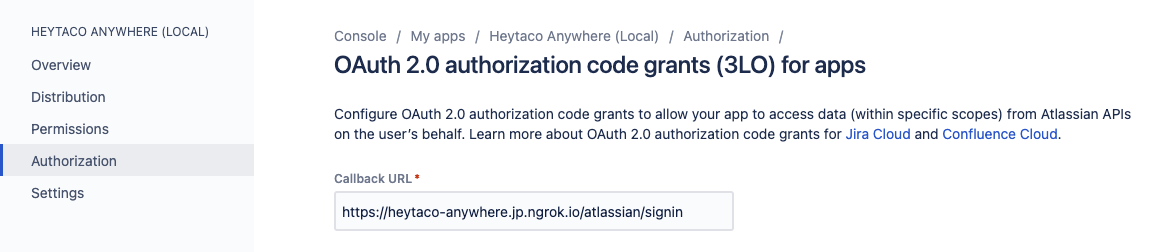
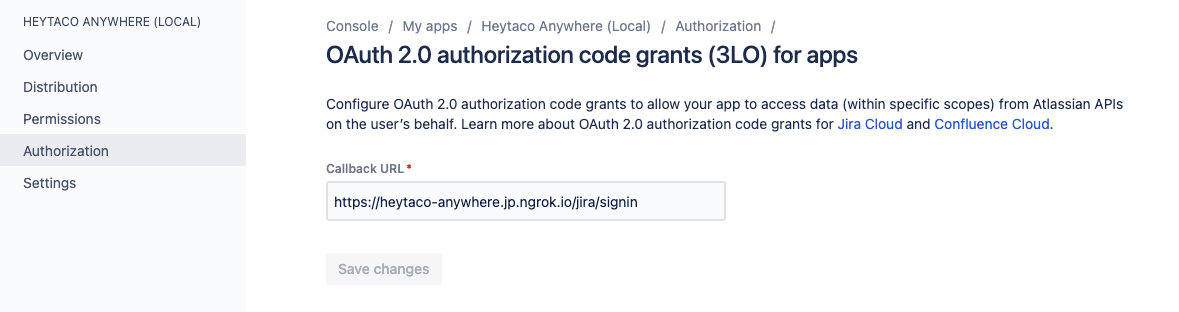
deploy: cb1532b2aeaf6fc4ee4f031f647ff674e81c6271

diff --git a/docs/configuration/index.html b/docs/configuration/index.html
@@ -1,2 +1,2 @@
 <!doctype html><html lang=en><head><meta charset=utf-8><meta http-equiv=x-ua-compatible content="ie=edge"><title>Configuration - Heytaco Anywhere 🌮</title><meta name=viewport content="width=device-width,initial-scale=1"><link rel=icon href=/favicon.png><link rel=stylesheet href=/css/style.min.f7a420f5e4a45c03f29b643887d372739f8b0c38ee1bb1262dacb8bded4d7c79.css></head><body class="page page-default-single"><div id=main-menu-mobile class=main-menu-mobile><ul><li class=menu-item-home><a href=/><span>Home</span></a></li><li class=menu-item-docs><a href=/docs/><span>Docs</span></a></li></ul></div><div class=wrapper><div class=header><div class=container><div class=logo><a href=/><img alt=Logo src=/images/taco.png></a></div><div class=logo-mobile><a href=/><img alt=Logo src=/images/taco.png></a></div><div id=main-menu class=main-menu><ul><li class=menu-item-home><a href=/><span>Home</span></a></li><li class=menu-item-docs><a href=/docs/><span>Docs</span></a></li></ul></div><button id=toggle-main-menu-mobile class="hamburger hamburger--slider" type=button>
-<span class=hamburger-box><span class=hamburger-inner></span></span></button></div></div><div class="container pt-2 pt-md-6 pb-3 pb-md-6"><div class=row><div class="col-12 col-md-3 mb-3"><div class=sidebar><div class=docs-menu><h4>Docs</h4><ul><li><a href=/docs/get-started/>Get started</a></li><li class=active><a href=/docs/configuration/>Configuration</a></li><li><a href=/docs/installation/>Installation</a></li><li><a href=/docs/reference/>Reference</a></li><li><a href=/docs/release/>Release Note</a></li></ul></div></div></div><div class="col-12 col-md-9"><h1 class=title>Configuration</h1><div class=content><p>Heytaco Anywhere is connected by OAuth. It is necessary to configure Slack or Microsoft Teams. And also you need to configure a service to communicate with HeyTaco!.</p><h2 id=contents>Contents</h2><ul><li><a href=#slack>Slack</a></li><li><a href=#microsoft-teams>Microsoft Teams</a></li><li><a href=#github>Github</a></li><li><a href=#atlassian>Atlassian</a></li></ul><h2 id=slack>Slack</h2><p>Slack supports App people connect their tools and work more efficiently within Slack. Heytaco Anywhere is also a kind of Slack App.</p><h3 id=step-0-create-a-new-channel>Step 0: Create a new channel</h3><p>To send the 🌮 message, it needs a new slack channel. Let&rsquo;s add a new channle, such as &ldquo;taco&rdquo;, and get the channel id. Check <a href=https://stackoverflow.com/questions/40940327/what-is-the-simplest-way-to-find-a-slack-team-id-and-a-channel-id>here</a>.</p><p>figure) Get channel id</p><p><img src=/images/slack-channel-id.png alt=slack-channel-id></p><h3 id=step-1-create-app>Step 1: Create App</h3><p>Firstly, we have to create <a href=https://api.slack.com/apps>Slack App</a>. Let&rsquo;s click the <strong>Create App</strong> button and fill out inputs.</p><p><img src=/images/slack-create-app.png alt=slack-create-app></p><h3 id=step-2-set-up-app>Step 2: Set up App</h3><p>After creating App let&rsquo;s move to the <strong>OAuth & Permissions</strong> section. In this section, we need to set up the <em>redirect URLs</em> and <em>scopes</em>. Firstly, let&rsquo;s add a new redirect URL with the <code>https://YOUR_HOST/slack/signin</code> (or <code>http://YOUR_HOST/slack/signin</code>) format; secondly, add the <code>identity.basic</code> into the user token scopes.</p><p>figure) Slack Redirect URLS</p><p><img src=/images/slack-redirect-url.png alt=slack-redirect-url></p><p>figure) Slack Scope</p><p><img src=/images/slack-scope.png alt=slack-scope></p><p>Then install the App into the workspace by clicking <strong>Install to Workspace</strong>. (<a href=https://api.slack.com/authentication/basics#start>Slack Doc</a>)</p><h2 id=microsoft-teams>Microsoft Teams</h2><p><strong>WIP</strong></p><h2 id=github>Github</h2><p>Github provides OAuth App & Webhook. It makes Heytaco Anywhere reads Github users and listen to events.</p><h3 id=step-1-create-app-1>Step 1: Create App</h3><p>In the organization, move to <strong>Settings > Developer Settings > OAuth settings</strong> to configure OAuth.</p><p>After click New OAuth App, you have to fill out the Homepage URL as the <code>https://YOUR_HOST</code> format and the Authorization callback URL as the <code>https://YOUR_HOST/github/signin</code> format. (<a href=https://docs.github.com/en/developers/apps/creating-an-oauth-app>Github Doc</a>)</p><p>figure) Create Github OAuth App</p><p><img src=/images/github-create-app.png alt=github-create-app></p><h3 id=step-2-create-webhook>Step 2: Create Webhook</h3><p>In the organization, move to <strong>Settings > Webhooks</strong> to configure the webhook.</p><p>After click Add webhook, you have to fill out the Payload URL and the Content-Type are required; The Payload URL format has to be <code>https://YOUR_HOST/github/hooks</code>, and the Content-Type has to be <code>application/json</code> format; (We recommend you should set the signing secret for security.)</p><p>And we have to select events the server listens to the event, click these events enabled: <code>Issue comments</code>, <code>Pull request reviews</code>, and <code>Pull request review comments</code>.</p><p>figure) Create Github Webhook</p><p><img src=/images/github-create-webhook.png alt=github-create-webhook></p><h2 id=atlassian>Atlassian</h2><p>Github provides OAuth App & Webhook. It makes Heytaco Anywhere reads Github user and listen to events.</p><h3 id=step-1-create-app-2>Step 1: Create App</h3><p>To connect with Atlassian, you have to Atlassian App and make it public. Let&rsquo;s move to the <a href=https://developer.atlassian.com/console/myapps/>Atlassian Developer Console</a> and create a new App. The App requires configuring the Callback URL and Permissions; The callback URL has to be <code>https://YOUR_HOST/atlassian/signin</code>; The <code>User identity API</code> has to be added. (reference <a href=https://developer.atlassian.com/cloud/jira/platform/oauth-2-3lo-apps/>JIRA OAuth</a>)</p><p>To make your teammates access the App for authentication. You have to the App public by requesting to <a href=https://ecosystem.atlassian.net/servicedesk/customer/portal/14>Developer Service Desk</a>.</p><p>figure) Atlassian Authorization</p><p><img src=/images/atlassian-app-authorization.png alt=atlassian-app-authorization></p><p>figure) Atlassian Permissions</p><p><img src=/images/atlassian-app-permissions.png alt=atlassian-app-permissions></p><p>figure) Atlassian Distribution</p><p><img src=/images/atlassian-app-distribution.png alt=atlassian-app-distribution></p><h3 id=step-2-create-webhook-1>Step 2: Create Webhook</h3><p>In your JIRA workspace, move to <strong>Settings > System > WebHooks</strong>.</p><p>After click Create a Webhook button, you have to fill out the URL with <code>https://YOUR_HOST/atlassian/hooks</code>, and click the Comment <code>created</code> event enabled.</p><p><img src=/images/atlassian-app-webhook.png alt=atlassian-app-webhook></p></div></div></div></div></div></div><div class=sub-footer><div class=container><div class=row><div class=col-12><div class=sub-footer-inner><ul><li class=zerostatic><a href=https://github.com/heytaco-anywhere/community/discussions>Community</a></li><li class=zerostatic><a href=/privacy>Privacy</a></li><li class=zerostatic><a href=https://heytaco-anywhere.chat>heytaco-anywhere.chat</a></li></ul></div></div></div></div></div><script type=text/javascript src=/js/scripts.min.eaf147370baecdd07c022597db631f99cab1c9cd6479de586f30327a568d6a0f.js></script></body></html>
+<span class=hamburger-box><span class=hamburger-inner></span></span></button></div></div><div class="container pt-2 pt-md-6 pb-3 pb-md-6"><div class=row><div class="col-12 col-md-3 mb-3"><div class=sidebar><div class=docs-menu><h4>Docs</h4><ul><li><a href=/docs/get-started/>Get started</a></li><li class=active><a href=/docs/configuration/>Configuration</a></li><li><a href=/docs/installation/>Installation</a></li><li><a href=/docs/reference/>Reference</a></li><li><a href=/docs/release/>Release Note</a></li></ul></div></div></div><div class="col-12 col-md-9"><h1 class=title>Configuration</h1><div class=content><p>Heytaco Anywhere is connected by OAuth. It is necessary to configure Slack or Microsoft Teams. And also you need to configure a service to communicate with HeyTaco!.</p><h2 id=contents>Contents</h2><ul><li><a href=#slack>Slack</a></li><li><a href=#microsoft-teams>Microsoft Teams</a></li><li><a href=#github>Github</a></li><li><a href=#jira>Jira</a></li></ul><h2 id=slack>Slack</h2><p>Slack supports App people connect their tools and work more efficiently within Slack. Heytaco Anywhere is also a kind of Slack App.</p><h3 id=step-0-create-a-new-channel>Step 0: Create a new channel</h3><p>To send the 🌮 message, it needs a new slack channel. Let&rsquo;s add a new channle, such as &ldquo;taco&rdquo;, and get the channel id. Check <a href=https://stackoverflow.com/questions/40940327/what-is-the-simplest-way-to-find-a-slack-team-id-and-a-channel-id>here</a>.</p><p>figure) Get channel id</p><p><img src=/images/slack-channel-id.png alt=slack-channel-id></p><h3 id=step-1-create-app>Step 1: Create App</h3><p>Firstly, we have to create <a href=https://api.slack.com/apps>Slack App</a>. Let&rsquo;s click the <strong>Create App</strong> button and fill out inputs.</p><p><img src=/images/slack-create-app.png alt=slack-create-app></p><h3 id=step-2-set-up-app>Step 2: Set up App</h3><p>After creating App let&rsquo;s move to the <strong>OAuth & Permissions</strong> section. In this section, we need to set up the <em>redirect URLs</em> and <em>scopes</em>. Firstly, let&rsquo;s add a new redirect URL with the <code>https://YOUR_HOST/slack/signin</code> (or <code>http://YOUR_HOST/slack/signin</code>) format; secondly, add the <code>identity.basic</code> into the user token scopes.</p><p>figure) Slack Redirect URLS</p><p><img src=/images/slack-redirect-url.png alt=slack-redirect-url></p><p>figure) Slack Scope</p><p><img src=/images/slack-scope.png alt=slack-scope></p><p>Then install the App into the workspace by clicking <strong>Install to Workspace</strong>. (<a href=https://api.slack.com/authentication/basics#start>Slack Doc</a>)</p><h2 id=microsoft-teams>Microsoft Teams</h2><p><strong>WIP</strong></p><h2 id=github>Github</h2><h3 id=step-1-create-app-1>Step 1: Create App</h3><p>In the organization, move to <strong>Settings > Developer Settings > OAuth settings</strong> to configure OAuth.</p><p>After click New OAuth App, you have to fill out the Homepage URL as the <code>https://YOUR_HOST</code> format and the Authorization callback URL as the <code>https://YOUR_HOST/github/signin</code> format. (<a href=https://docs.github.com/en/developers/apps/creating-an-oauth-app>Github Doc</a>)</p><p>figure) Create Github OAuth App</p><p><img src=/images/github-create-app.png alt=github-create-app></p><h3 id=step-2-create-webhook>Step 2: Create Webhook</h3><p>In the organization, move to <strong>Settings > Webhooks</strong> to configure the webhook.</p><p>After click Add webhook, you have to fill out the Payload URL and the Content-Type are required; The Payload URL format has to be <code>https://YOUR_HOST/github/hooks</code>, and the Content-Type has to be <code>application/json</code> format; (We recommend you should set the signing secret for security.)</p><p>And we have to select events the server listens to the event, click these events enabled: <code>Issue comments</code>, <code>Pull request reviews</code>, and <code>Pull request review comments</code>.</p><p>figure) Create Github Webhook</p><p><img src=/images/github-create-webhook.png alt=github-create-webhook></p><h2 id=jira>Jira</h2><h3 id=step-1-create-app-2>Step 1: Create App</h3><p>To connect with Jira, you have to create App in Atlassian Developer and make it public. Let&rsquo;s move to the <a href=https://developer.atlassian.com/console/myapps/>Atlassian Developer Console</a> and create a new App. For OAuth, you have to configure the Callback URL and Permissions; The Callback URL has to be <code>https://YOUR_HOST/jira/signin</code> and it can be configured in the <em>Authorization</em> section; Permissions requires <code>View user profiles</code> and <code>View Jira Issue data</code> of Jira, it can be configured in the <em>Permissions</em> section. (<a href=https://developer.atlassian.com/cloud/jira/platform/oauth-2-3lo-apps/>JIRA oAuth</a>)</p><p>To make your teammates access the App for authentication. You can make the App public by requesting to <a href=https://ecosystem.atlassian.net/servicedesk/customer/portal/14>Developer Service Desk</a>.</p><p>figure) App Authorization</p><p><img src=/images/atlassian-app-authorization.png alt=atlassian-app-authorization></p><p>figure) App Permissions</p><p><img src=/images/atlassian-app-permissions.png alt=atlassian-app-permissions></p><p>figure) App Distribution</p><p><img src=/images/atlassian-app-distribution.png alt=atlassian-app-distribution></p><h3 id=step-2-create-webhook-1>Step 2: Create Webhook</h3><p>In your JIRA workspace, move to <strong>Settings > System > WebHooks</strong>.</p><p>After click Create a Webhook button, you have to fill out the URL with <code>https://YOUR_HOST/jira/hooks</code>, and click the Comment <code>created</code> event enabled.</p><p><img src=/images/atlassian-app-webhook.png alt=atlassian-app-webhook></p></div></div></div></div></div></div><div class=sub-footer><div class=container><div class=row><div class=col-12><div class=sub-footer-inner><ul><li class=zerostatic><a href=https://github.com/heytaco-anywhere/community/discussions>Community</a></li><li class=zerostatic><a href=/privacy>Privacy</a></li><li class=zerostatic><a href=https://heytaco-anywhere.chat>heytaco-anywhere.chat</a></li></ul></div></div></div></div></div><script type=text/javascript src=/js/scripts.min.eaf147370baecdd07c022597db631f99cab1c9cd6479de586f30327a568d6a0f.js></script></body></html>

diff --git a/docs/reference/index.html b/docs/reference/index.html
@@ -1,2 +1,5 @@
 <!doctype html><html lang=en><head><meta charset=utf-8><meta http-equiv=x-ua-compatible content="ie=edge"><title>Reference - Heytaco Anywhere 🌮</title><meta name=viewport content="width=device-width,initial-scale=1"><link rel=icon href=/favicon.png><link rel=stylesheet href=/css/style.min.f7a420f5e4a45c03f29b643887d372739f8b0c38ee1bb1262dacb8bded4d7c79.css></head><body class="page page-default-single"><div id=main-menu-mobile class=main-menu-mobile><ul><li class=menu-item-home><a href=/><span>Home</span></a></li><li class=menu-item-docs><a href=/docs/><span>Docs</span></a></li></ul></div><div class=wrapper><div class=header><div class=container><div class=logo><a href=/><img alt=Logo src=/images/taco.png></a></div><div class=logo-mobile><a href=/><img alt=Logo src=/images/taco.png></a></div><div id=main-menu class=main-menu><ul><li class=menu-item-home><a href=/><span>Home</span></a></li><li class=menu-item-docs><a href=/docs/><span>Docs</span></a></li></ul></div><button id=toggle-main-menu-mobile class="hamburger hamburger--slider" type=button>
-<span class=hamburger-box><span class=hamburger-inner></span></span></button></div></div><div class="container pt-2 pt-md-6 pb-3 pb-md-6"><div class=row><div class="col-12 col-md-3 mb-3"><div class=sidebar><div class=docs-menu><h4>Docs</h4><ul><li><a href=/docs/get-started/>Get started</a></li><li><a href=/docs/configuration/>Configuration</a></li><li><a href=/docs/installation/>Installation</a></li><li class=active><a href=/docs/reference/>Reference</a></li><li><a href=/docs/release/>Release Note</a></li></ul></div></div></div><div class="col-12 col-md-9"><h1 class=title>Reference</h1><div class=content><p>Index of server configuration settings. These configurations are injected by environment variables.</p><h3 id=environment-vairables>Environment Vairables</h3><ul><li><p><strong>HEYTACO_ANYWHERE_DEBUG</strong>: Debug mode.</p></li><li><p><strong>HEYTACO_ANYWHERE_SERVER_HOST</strong>: Required string value configures the user-facing (and webhook) hostname. <em>This value is used to configure OAuth.</em></p></li><li><p><strong>HEYTACO_ANYWHERE_SERVER_PROTO</strong>: Required string value provides your external protocol scheme. This value should be set to <code>http</code> or <code>https</code>.</p></li><li><p><strong>HEYTACO_ANYWHERE_HEYTACO_APP_SECRET</strong>: Required string value provides your HeyTaco! App secret. <em>You can get the secret after creating HeyTaco! App</em> Here is the <a href=https://www.heytaco.chat/team/apps/create>link</a> to create.</p></li><li><p><strong>HEYTACO_ANYWHERE_WEBHOOK_SECRET</strong>: String value provides the signing secret. <em>It is used to check the signature is valid or not.</em> It doesn&rsquo;t check the signature if you don&rsquo;t set up.</p></li><li><p><strong>HEYTACO_ANYWHERE_SLACK_CHANNEL</strong>: String value is the slack channel id. <em>It is used to post the message. This value should be the channel id, not the name.</em> Check <a href=https://stackoverflow.com/questions/40940327/what-is-the-simplest-way-to-find-a-slack-team-id-and-a-channel-id>here</a>.</p></li><li><p><strong>HEYTACO_ANYWHERE_SLACK_CLIENT_ID</strong>: String string value provides the client id of Slack App. <em>This is used to authorize access to Slack to get the access token.</em></p></li><li><p><strong>HEYTACO_ANYWHERE_SLACK_CLIENT_SECRET</strong>: String string value provides the client secret of Slack App.</p></li><li><p><strong>HEYTACO_ANYWHERE_GITHUB_CLIENT_ID</strong>: String value provides the client id of Github OAuth App. <em>This is used to authorize access to Github to map Github users with HeyTaco! users.</em></p></li><li><p><strong>HEYTACO_ANYWHERE_GITHUB_CLIENT_SECRET</strong>: String value provides the client secret of Github OAuth App.</p></li><li><p><strong>HEYTACO_ANYWHERE_ATLASSIAN_CLIENT_ID</strong>: String value provides the client id of Atlassian OAuth App. <em>This is used to authorize access to Atlassian to map Atlassian users with HeyTaco! users.</em></p></li><li><p><strong>HEYTACO_ANYWHERE_ATLASSIAN_CLIENT_SECRET</strong>: String value provides the client secret of Atlassian OAuth App.</p></li></ul></div></div></div></div></div></div><div class=sub-footer><div class=container><div class=row><div class=col-12><div class=sub-footer-inner><ul><li class=zerostatic><a href=https://github.com/heytaco-anywhere/community/discussions>Community</a></li><li class=zerostatic><a href=/privacy>Privacy</a></li><li class=zerostatic><a href=https://heytaco-anywhere.chat>heytaco-anywhere.chat</a></li></ul></div></div></div></div></div><script type=text/javascript src=/js/scripts.min.eaf147370baecdd07c022597db631f99cab1c9cd6479de586f30327a568d6a0f.js></script></body></html>
+<span class=hamburger-box><span class=hamburger-inner></span></span></button></div></div><div class="container pt-2 pt-md-6 pb-3 pb-md-6"><div class=row><div class="col-12 col-md-3 mb-3"><div class=sidebar><div class=docs-menu><h4>Docs</h4><ul><li><a href=/docs/get-started/>Get started</a></li><li><a href=/docs/configuration/>Configuration</a></li><li><a href=/docs/installation/>Installation</a></li><li class=active><a href=/docs/reference/>Reference</a></li><li><a href=/docs/release/>Release Note</a></li></ul></div></div></div><div class="col-12 col-md-9"><h1 class=title>Reference</h1><div class=content><p>Index of server configuration settings. These configurations are injected by environment variables.</p><h3 id=environment-vairables>Environment Vairables</h3><p><strong>HEYTACO_ANYWHERE_DEBUG</strong></p><p>Debug mode.</p><p><strong>HEYTACO_ANYWHERE_SERVER_HOST</strong></p><p>Required string value configures the user-facing (and webhook) hostname. <em>This value is used to configure OAuth.</em></p><p><strong>HEYTACO_ANYWHERE_SERVER_PROTO</strong></p><p>Required string value provides your external protocol scheme. This value should be set to <code>http</code> or <code>https</code>.</p><p><strong>HEYTACO_ANYWHERE_HEYTACO_APP_SECRET</strong></p><p>Required string value provides your HeyTaco! App secret. <em>You can get the secret after creating HeyTaco! App</em> Here is the <a href=https://www.heytaco.chat/team/apps/create>link</a> to create.</p><p><strong>HEYTACO_ANYWHERE_WEBHOOK_SECRET</strong></p><p>String value provides the signing secret. <em>It is used to check the signature is valid or not.</em> It doesn&rsquo;t check the signature if you don&rsquo;t set up.</p><p><strong>HEYTACO_ANYWHERE_SLACK_CHANNEL</strong></p><p>String value is the slack channel id. <em>It is used to post the message. This value should be the channel id, not the name.</em> Check <a href=https://stackoverflow.com/questions/40940327/what-is-the-simplest-way-to-find-a-slack-team-id-and-a-channel-id>here</a>.</p><p><strong>HEYTACO_ANYWHERE_SLACK_CLIENT_ID</strong></p><p>String string value provides the client id of Slack App. <em>This is used to authorize access to Slack to get the access token.</em></p><p><strong>HEYTACO_ANYWHERE_SLACK_CLIENT_SECRET</strong></p><p>String string value provides the client secret of Slack App.</p><p><strong>HEYTACO_ANYWHERE_GITHUB_CLIENT_ID</strong></p><p>String value provides the client id of Github OAuth App. <em>This is used to authorize access to Github to map Github users with HeyTaco! users.</em></p><p><strong>HEYTACO_ANYWHERE_GITHUB_CLIENT_SECRET</strong></p><p>String value provides the client secret of Github OAuth App.</p><p><strong>HEYTACO_ANYWHERE_JIRA_CLIENT_ID</strong></p><p>String value provides the client id of Atlassian OAuth App. <em>This is used to authorize access to Jira to map Jira users with HeyTaco! users.</em></p><p><strong>HEYTACO_ANYWHERE_JIRA_CLIENT_SECRET</strong></p><p>String value provides the client secret of Atlassian OAuth App.</p><p><strong>HEYTACO_ANYWHERE_STORE_DRIVER</strong></p><p>String value provides the driver of store. It supports <code>sqlite3</code>, <code>mysql</code>, and <code>postgres</code>. <em>The default value is</em> <code>sqlite3</code>.</p><p><strong>HEYTACO_ANYWHERE_STORE_SOURCE</strong></p><p>String value provides the source of store. Configures the database connection string. <em>The default value is the path of the embedded sqlite database file.</em></p><div class=highlight><pre class=chroma><code class=language-fallback data-lang=fallback>HEYTACO_ANYWHERE_STORE_SOURCE=file:sqlite3.db?cache=shared&amp;_fk=1
+</code></pre></div><p>Example mysql connection string (below). See the <a href=https://github.com/go-sql-driver/mysql#dsn-data-source-name>official driver</a> documentation for more connection string details.</p><div class=highlight><pre class=chroma><code class=language-fallback data-lang=fallback>HEYTACO_ANYWHERE_STORE_SOURCE=root:password@tcp(1.2.3.4:3306)/heytacoanywhere?parseTime=true
+</code></pre></div><p>Example postgres connection string (below). See the <a href=https://www.postgresql.org/docs/current/libpq-connect.html#LIBPQ-CONNSTRING>official driver</a> documentation for more connection string details.</p><div class=highlight><pre class=chroma><code class=language-fallback data-lang=fallback>HEYTACO_ANYWHERE_STORE_SOURCE=postgres://root:password@1.2.3.4:5432/postgres?sslmode=disable
+</code></pre></div><p><strong>HEYTACO_ANYWHERE_LICENSE</strong></p><p>String value provides the license key.</p></div></div></div></div></div></div><div class=sub-footer><div class=container><div class=row><div class=col-12><div class=sub-footer-inner><ul><li class=zerostatic><a href=https://github.com/heytaco-anywhere/community/discussions>Community</a></li><li class=zerostatic><a href=/privacy>Privacy</a></li><li class=zerostatic><a href=https://heytaco-anywhere.chat>heytaco-anywhere.chat</a></li></ul></div></div></div></div></div><script type=text/javascript src=/js/scripts.min.eaf147370baecdd07c022597db631f99cab1c9cd6479de586f30327a568d6a0f.js></script></body></html>

diff --git a/index.html b/index.html
@@ -1,2 +1,2 @@
 <!doctype html><html lang=en><head><meta name=generator content="Hugo 0.81.0"><meta charset=utf-8><meta http-equiv=x-ua-compatible content="ie=edge"><title>Heytaco Anywhere 🌮</title><meta name=viewport content="width=device-width,initial-scale=1"><meta name=description content="Heytaco Anywhere is 3rd party plugin of Heytaco."><meta property="og:title" content="Heytaco Anywhere"><meta property="og:type" content="website"><meta property="og:url" content="https://hugo-whisper.netlify.app"><meta property="og:image" content="https://raw.githubusercontent.com/JugglerX/hugo-whisper-theme/master/images/tn.png"><meta property="og:description" content="Heytaco Anywhere is 3rd party plugin of Heytaco."><meta name=twitter:card content="summary"><meta name=twitter:site content="@zerostaticio"><meta name=twitter:creator content="@zerostaticio"><link rel=icon href=/favicon.png><link rel=stylesheet href=/css/style.min.f7a420f5e4a45c03f29b643887d372739f8b0c38ee1bb1262dacb8bded4d7c79.css><link type=text/css rel=stylesheet href=/adp/adp.min.css></head><body class="page page-home"><div id=main-menu-mobile class=main-menu-mobile><ul><li class="menu-item-home active"><a href=/><span>Home</span></a></li><li class=menu-item-docs><a href=/docs/><span>Docs</span></a></li></ul></div><div class=wrapper><div class=header><div class=container><div class=logo><a href=/><img alt=Logo src=/images/taco.png></a></div><div class=logo-mobile><a href=/><img alt=Logo src=/images/taco.png></a></div><div id=main-menu class=main-menu><ul><li class="menu-item-home active"><a href=/><span>Home</span></a></li><li class=menu-item-docs><a href=/docs/><span>Docs</span></a></li></ul></div><button id=toggle-main-menu-mobile class="hamburger hamburger--slider" type=button>
-<span class=hamburger-box><span class=hamburger-inner></span></span></button></div></div><div class=strip><div class="container pt-4 pb-6"><div class=row><div class=col-12><h1 class=title>Heytaco Anywhere!</h1><div class=content><p>Heytaco Anywhere is Heytaco! 3rd party app to send 🌮 in any other services. Now, enjoy Heytaco! in Anywhere.</p></div><a class="button button-primary mb-2" href=/docs>Read The Docs</a></div></div></div></div><div class=strip><div class="container pt-4 pb-8"><div class="row justify-content-center adp-hide" id=github-slack><div class="col-12 col-md-10"><img src=/images/github-slack.png style=max-width:100%></div></div><div class="row justify-content-center adp-hide" id=atlassian-slack><div class="col-12 col-md-10"><img src=/images/atlassian-slack.png style=max-width:100%></div></div></div></div></div><div class=sub-footer><div class=container><div class=row><div class=col-12><div class=sub-footer-inner><ul><li class=zerostatic><a href=https://github.com/heytaco-anywhere/community/discussions>Community</a></li><li class=zerostatic><a href=/privacy>Privacy</a></li><li class=zerostatic><a href=https://heytaco-anywhere.chat>heytaco-anywhere.chat</a></li></ul></div></div></div></div></div><script type=text/javascript src=/adp/adp.min.js></script><script>document.addEventListener("DOMContentLoaded",function(){setTimeout(()=>{var a=document.querySelector("#github-slack");ADP.show(a,'slide-down')},500),setTimeout(()=>{var a=document.querySelector("#atlassian-slack");ADP.show(a,'slide-down')},1500)})</script><script type=text/javascript src=/js/scripts.min.eaf147370baecdd07c022597db631f99cab1c9cd6479de586f30327a568d6a0f.js></script></body></html>
+<span class=hamburger-box><span class=hamburger-inner></span></span></button></div></div><div class=strip><div class="container pt-4 pb-6"><div class=row><div class=col-12><h1 class=title>Heytaco Anywhere!</h1><div class=content><p>Heytaco Anywhere is Heytaco! 3rd party app to send 🌮 in any other services. Now, enjoy Heytaco! in Anywhere.</p></div><a class="button button-primary mb-2" href=/docs>Read The Docs</a></div></div></div></div><div class=strip><div class="container pt-4 pb-8"><div class="row justify-content-center adp-hide" id=github-slack><div class="col-12 col-md-10"><img src=/images/github-slack.png style=max-width:100%></div></div><div class="row justify-content-center adp-hide" id=jira-slack><div class="col-12 col-md-10"><img src=/images/jira-slack.png style=max-width:100%></div></div></div></div></div><div class=sub-footer><div class=container><div class=row><div class=col-12><div class=sub-footer-inner><ul><li class=zerostatic><a href=https://github.com/heytaco-anywhere/community/discussions>Community</a></li><li class=zerostatic><a href=/privacy>Privacy</a></li><li class=zerostatic><a href=https://heytaco-anywhere.chat>heytaco-anywhere.chat</a></li></ul></div></div></div></div></div><script type=text/javascript src=/adp/adp.min.js></script><script>document.addEventListener("DOMContentLoaded",function(){setTimeout(()=>{var a=document.querySelector("#github-slack");ADP.show(a,'slide-down')},500),setTimeout(()=>{var a=document.querySelector("#jira-slack");ADP.show(a,'slide-down')},1500)})</script><script type=text/javascript src=/js/scripts.min.eaf147370baecdd07c022597db631f99cab1c9cd6479de586f30327a568d6a0f.js></script></body></html>
